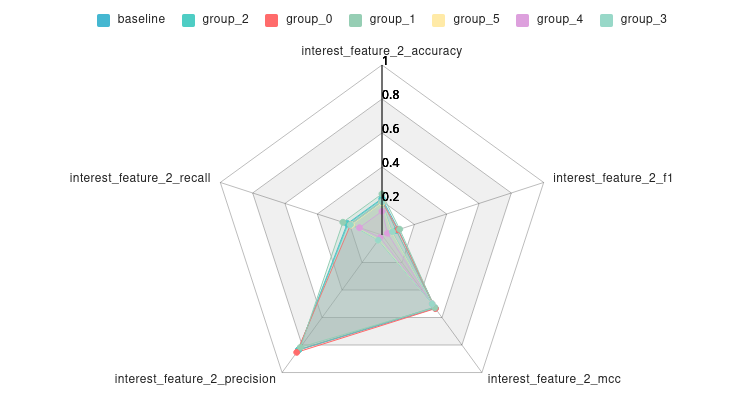
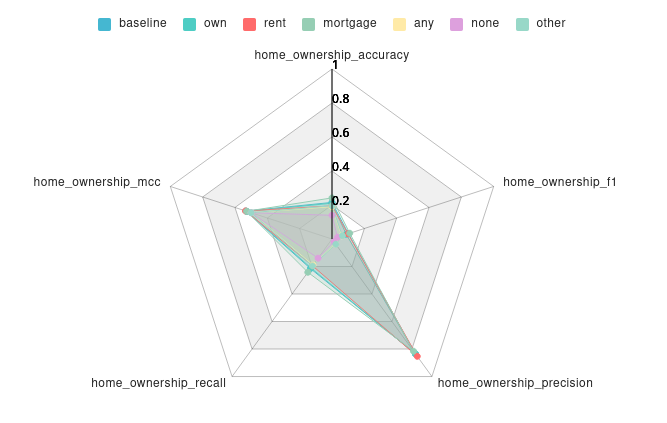
Select any number of features

diff --git a/src/fairness_awareness/utils.py b/src/fairness_awareness/utils.py
@@ -36,7 +36,7 @@ class Feature(BaseModel):
 # ==================== Data Utils ====================
 
 
-def check_features(config, logger) -> tuple[list[str], dict[str, str], bool]:
+def check_features(config, logger) -> tuple[list[str], list[str], bool]:
     """Validates features and returns (feature_names, interest_feature_names, failure_flag)."""
     
     # Target must be of type INTEGER
@@ -44,10 +44,10 @@ def check_features(config, logger) -> tuple[list[str], dict[str, str], bool]:
     target_feature = next((f for f in config.features if f.name == target_feature_name), None)
     if target_feature is None:
         logger.error("Target feature not found in features list.")
-        return ([], {}, True)
+        return ([], [], True)
     if target_feature.type != FeatureType.INTEGER:
         logger.error("Target feature '%s' must be of type INTEGER.", target_feature_name)
-        return ([], {}, True)
+        return ([], [], True)
 
     # Date feature must be of type DATE if specified
     date_feature_name = config.date_feature
@@ -55,31 +55,27 @@ def check_features(config, logger) -> tuple[list[str], dict[str, str], bool]:
         date_feature = next((f for f in config.features if f.name == date_feature_name), None)
         if date_feature is None:
             logger.error("Date feature not found in features list.")
-            return ([], {}, True)
+            return ([], [], True)
         if date_feature.type != FeatureType.DATE:
             logger.error("Date feature '%s' must be of type DATE.", date_feature_name)
-            return ([], {}, True)
+            return ([], [], True)
     
     # Features of interest must be of type INTEGER or CATEGORICAL if specified
-    interest_feature_names = {
-        **({config.interest_feature_1: "interest_feature_1"} if config.interest_feature_1 else {}),
-        **({config.interest_feature_2: "interest_feature_2"} if config.interest_feature_2 else {}),
-        **({config.interest_feature_3: "interest_feature_3"} if config.interest_feature_3 else {}),
-    }
-    if len(interest_feature_names) == 0:
+    interest_feature_names = config.interest_features
+    if not interest_feature_names:
         logger.error("At least one interest feature must be specified.")
-        return ([], {}, True)
-    for feature_name in interest_feature_names.keys():
+        return ([], [], True)
+    for feature_name in interest_feature_names:
         feature = next((f for f in config.features if f.name == feature_name), None)
         if feature is None:
             logger.error("Interest feature '%s' not found in features list.", feature_name)
-            return ([], {}, True)
+            return ([], [], True)
         if feature.type not in (FeatureType.INTEGER, FeatureType.CATEGORICAL):
             logger.error(
                 "Interest feature '%s' must be of type INTEGER or CATEGORICAL.",
                 feature_name,
             )
-            return ([], {}, True)
+            return ([], [], True)
 
     # Prepare features
     column_feature_names = []

diff --git a/src/fairness_awareness/classification/base_plugin.py b/src/fairness_awareness/classification/base_plugin.py
@@ -108,9 +108,7 @@ class BaseClassificationFairnessPlugin(BaseEvaluationPlugin[ConfigForm]):
         if form_data is None:
             ui_schema["date_feature"] = {"ui:widget": "hidden"}
             ui_schema["target_feature"] = {"ui:widget": "hidden"}
-            ui_schema["interest_feature_1"] = {"ui:widget": "hidden"}
-            ui_schema["interest_feature_2"] = {"ui:widget": "hidden"}
-            ui_schema["interest_feature_3"] = {"ui:widget": "hidden"}
+            ui_schema["interest_features"] = {"ui:widget": "hidden"}
             return None, config_schema, ui_schema
 
         # Convert to dict for property access if needed
@@ -154,9 +152,7 @@ class BaseClassificationFairnessPlugin(BaseEvaluationPlugin[ConfigForm]):
         
         if (
             "properties" in config_schema
-            and "interest_feature_1" in config_schema["properties"]
-            and "interest_feature_2" in config_schema["properties"]
-            and "interest_feature_3" in config_schema["properties"]
+            and "interest_features" in config_schema["properties"]
         ):
             possible_interest_features = [
                 f["name"]
@@ -164,14 +160,10 @@ class BaseClassificationFairnessPlugin(BaseEvaluationPlugin[ConfigForm]):
                 if f["type"] in (FeatureType.INTEGER, FeatureType.CATEGORICAL)
             ]
             if possible_interest_features:
-                possible_interest_features.insert(0, "")
-                config_schema["properties"]["interest_feature_1"]["enum"] = (possible_interest_features)
-                config_schema["properties"]["interest_feature_2"]["enum"] = (possible_interest_features)
-                config_schema["properties"]["interest_feature_3"]["enum"] = (possible_interest_features)
+                config_schema["properties"]["interest_features"]["items"]["enum"] = possible_interest_features
+                config_schema["properties"]["interest_features"]["uniqueItems"] = True
             else:
-                ui_schema["interest_feature_1"] = {"ui:widget": "hidden"}
-                ui_schema["interest_feature_2"] = {"ui:widget": "hidden"}
-                ui_schema["interest_feature_3"] = {"ui:widget": "hidden"}
+                ui_schema["interest_features"] = {"ui:widget": "hidden"}
 
         return form_data, config_schema, ui_schema
 

diff --git a/src/fairness_awareness/classification/config_form.py b/src/fairness_awareness/classification/config_form.py
@@ -31,6 +31,9 @@ FORM_UI_SCHEMA: dict[str, dict[str, Any]] = {
             },
         },
     },
+    "interest_features": {
+        "ui:widget": "checkboxes",
+    },
     "label_mappings": {
         "ui:widget": "textarea",
         "ui:options": {
@@ -43,9 +46,11 @@ FORM_UI_SCHEMA: dict[str, dict[str, Any]] = {
 class ConfigForm(BaseModel):
     target_feature: str | None = Field(default=None, title="Target Feature")
     date_feature: str | None = Field(default=None, title="Date Feature")
-    interest_feature_1: str | None = Field(default="", title="Feature of Interest")
-    interest_feature_2: str | None = Field(default="", title="Feature of Interest")
-    interest_feature_3: str | None = Field(default="", title="Feature of Interest")
+    interest_features: list[str] = Field(
+        default_factory=list,
+        title="Features of Interest",
+        description="Select one or more features to analyze",
+    )
 
     features: list[Feature] = Field(
         default_factory=list, description="List of features to use for prediction"
@@ -63,10 +68,6 @@ class ConfigForm(BaseModel):
     def validate_special_features(self) -> "ConfigForm":
         self.target_feature = self.target_feature or None
         self.date_feature = self.date_feature or None
-        # do not set interest features to None due to falsey value of empty string
-        # self.interest_feature_1 = self.interest_feature_1 or None
-        # self.interest_feature_2 = self.interest_feature_2 or None
-        # self.interest_feature_3 = self.interest_feature_3 or None
 
         # Target feature validation
         if self.target_feature is None:

diff --git a/src/fairness_awareness/classification/plugin.py b/src/fairness_awareness/classification/plugin.py
@@ -87,7 +87,7 @@ class ClassificationFairnessPlugin(BaseClassificationFairnessPlugin):
     
         # For each selected feature
         for feature in config.features:
-            if feature is None or feature.name not in interest_feature_names.keys():
+            if feature is None or feature.name not in interest_feature_names:
                 continue
 
             feature_name = feature.name
